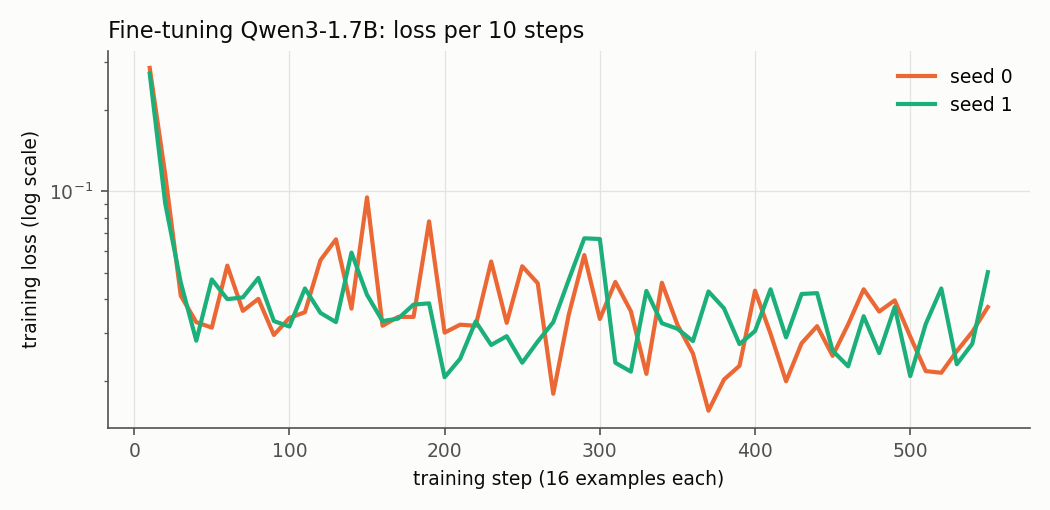
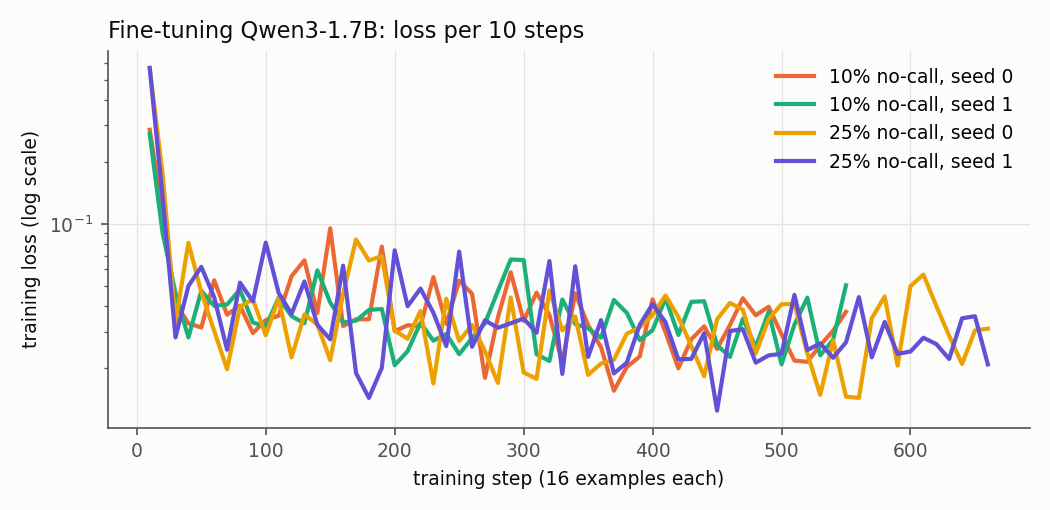
cleanup

diff --git a/src/plots.py b/src/plots.py
@@ -1,4 +1,4 @@
-"""Figures for the write-up: baselines, training loss, fine-tune evaluation, probe AUROC by layer.
+"""Figures for the write-up: baselines, training loss, fine-tune evaluation, probe AUROC by layer, steering.
 
 python src/plots.py      # writes results/figures/*.png from files already in results/
 """
@@ -16,10 +16,13 @@ ROOT = pathlib.Path(__file__).resolve().parent.parent
 OUT = ROOT / "results/figures"
 CATS = ["simple", "multiple", "parallel", "parallel_multiple", "irrelevance"]
 FT = "Qwen3-1.7B_n8000_nocall0.1_r16_s{}"
+FT25 = "Qwen3-1.7B_n8000_nocall0.25_r16_s{}"
 # one colour per model everywhere (validated: CVD-safe as a set, aqua needs the legend, which every chart has)
-COLOR = {"Qwen3-0.6B": "#008300", "Qwen3-1.7B": "#2a78d6", FT.format(0): "#eb6834", FT.format(1): "#1baf7a"}
+COLOR = {"Qwen3-0.6B": "#008300", "Qwen3-1.7B": "#2a78d6", FT.format(0): "#eb6834", FT.format(1): "#1baf7a",
+         FT25.format(0): "#eda100", FT25.format(1): "#6250d6"}
 LABEL = {"Qwen3-0.6B": "Qwen3-0.6B, untouched", "Qwen3-1.7B": "Qwen3-1.7B, untouched",
-         FT.format(0): "1.7B fine-tuned, seed 0", FT.format(1): "1.7B fine-tuned, seed 1"}
+         FT.format(0): "10% no-call, seed 0", FT.format(1): "10% no-call, seed 1",
+         FT25.format(0): "25% no-call, seed 0", FT25.format(1): "25% no-call, seed 1"}
 INK, MUTED, GRID = "#0b0b0b", "#52514e", "#e4e3df"
 plt.rcParams.update({"font.size": 9, "axes.edgecolor": MUTED, "axes.labelcolor": INK, "xtick.color": MUTED, "ytick.color": MUTED,
                      "axes.spines.top": False, "axes.spines.right": False, "axes.grid": True, "grid.color": GRID,
@@ -48,16 +51,16 @@ def bars(models, title, path):
         ax.bar(x, v[:, 0], w - 0.02, color=COLOR[m], label=LABEL[m])
         ax.errorbar(x, v[:, 0], yerr=[v[:, 0] - v[:, 1], v[:, 2] - v[:, 0]], fmt="none", ecolor=INK, elinewidth=0.8, capsize=2)
     ax.set_xticks(range(len(cats)), [c.replace("_", "-") for c in cats[:-1]] + ["overall"])
-    ax.set_ylim(50, 100); ax.set_ylabel("BFCL accuracy, % (95% CI)"); ax.set_title(title, loc="left", color=INK, pad=24)
-    ax.legend(loc="lower left", bbox_to_anchor=(0, 1.0), ncol=len(models))
+    ax.set_ylim(50, 100); ax.set_ylabel("BFCL accuracy, % (95% CI)"); ax.set_title(title, loc="left", color=INK, pad=12 + 14 * -(-len(models) // 3))
+    ax.legend(loc="lower left", bbox_to_anchor=(0, 1.0), ncol=3, fontsize=8)
     fig.tight_layout(); fig.savefig(OUT / path, dpi=150); plt.close(fig)
 
 
 def training():
     fig, ax = plt.subplots(figsize=(7, 3.4))
-    for s in (0, 1):
-        log = [x for x in json.load(open(ROOT / f"results/{FT.format(s)}_train.json"))["log"] if "loss" in x]
-        ax.plot([x["step"] for x in log], [x["loss"] for x in log], lw=2, color=COLOR[FT.format(s)], label=f"seed {s}")
+    for m in [FT.format(0), FT.format(1), FT25.format(0), FT25.format(1)]:
+        log = [x for x in json.load(open(ROOT / f"results/{m}_train.json"))["log"] if "loss" in x]
+        ax.plot([x["step"] for x in log], [x["loss"] for x in log], lw=2, color=COLOR[m], label=LABEL[m])
     ax.set_yscale("log"); ax.set_xlabel("training step (16 examples each)"); ax.set_ylabel("training loss (log scale)")
     ax.set_title("Fine-tuning Qwen3-1.7B: loss per 10 steps", loc="left", color=INK); ax.legend()
     fig.tight_layout(); fig.savefig(OUT / "2_training_loss.png", dpi=150); plt.close(fig)
@@ -98,9 +101,9 @@ def probes():
 OUT.mkdir(parents=True, exist_ok=True)
 bars(["Qwen3-0.6B", "Qwen3-1.7B"], "Baselines: untouched Qwen3 models on BFCL single-turn", "1_baselines.png")
 training()
-bars(["Qwen3-1.7B", FT.format(0), FT.format(1)], "Fine-tuning Qwen3-1.7B (10% no-call data): better parallel calls, worse holding back", "3_finetune_eval.png")
+bars(["Qwen3-1.7B", FT.format(0), FT.format(1), FT25.format(0), FT25.format(1)],
+     "Fine-tuning Qwen3-1.7B: better parallel calls, worse holding back, with 10% or 25% no-call data", "3_finetune_eval.png")
 probes()
-print(sorted(p.name for p in OUT.glob("*.png")))
 
 
 def steering():
@@ -136,4 +139,30 @@ def steering():
     fig.tight_layout(); fig.savefig(OUT / "5_steering.png", dpi=150); plt.close(fig)
 
 
+
+def nocall():
+    """How often the steered model answers without a tool call, push 0 vs 2, on three groups of held-out prompts."""
+    rows = [json.loads(l) for f in ("first_heldout", "first_live")
+            for l in open(ROOT / f"results/steer_{FT.format(0)}_calls_L17_{f}.jsonl", encoding="utf-8")]
+    groups = [("Real users, no tool fits\n(live_irrelevance, 300)", {"live_irrelevance"}),
+              ("Real users, a tool fits\n(live_simple + live_multiple, 558)", {"live_simple", "live_multiple"}),
+              ("Synthetic, a tool fits\n(BFCL held-out, 800)", set(CATS[:-1]))]
+    fig, ax = plt.subplots(figsize=(8, 3.8))
+    for j, (a, color, label) in enumerate([(0.0, "#a8a7a2", "no push"), (2.0, COLOR[FT.format(0)], "push 2 at the decision moment")]):
+        for g, (_, cats) in enumerate(groups):
+            x = [r["category"] in cats and "<tool_call>" not in r["output"] for r in rows if r["alpha"] == a and r["category"] in cats]
+            k, n = sum(x), len(x)
+            lo, hi = wilson(k, n)
+            ax.bar(g + (j - 0.5) * 0.36, k / n * 100, 0.34, color=color, label=label if g == 0 else None)
+            ax.errorbar(g + (j - 0.5) * 0.36, k / n * 100, yerr=[[k / n * 100 - lo * 100], [hi * 100 - k / n * 100]], fmt="none", ecolor=INK, elinewidth=0.8, capsize=2)
+            ax.annotate(f"{k / n:.0%}", (g + (j - 0.5) * 0.36, hi * 100), textcoords="offset points", xytext=(0, 3), ha="center", color=INK, fontsize=8)
+    ax.set_xticks(range(len(groups)), [g for g, _ in groups], fontsize=8); ax.set_ylim(0, 100)
+    ax.set_ylabel("answers with no tool call, % (95% CI)")
+    ax.set_title("Steering adds about 19 points of 'no call' on real-user prompts, whether or not a tool fits", loc="left", color=INK, fontsize=9, pad=22)
+    ax.legend(loc="lower left", bbox_to_anchor=(0, 1.0), ncol=2, fontsize=8)
+    fig.tight_layout(); fig.savefig(OUT / "6_steering_nocall.png", dpi=150); plt.close(fig)
+
+
 steering()
+nocall()
+print(sorted(p.name for p in OUT.glob("*.png")))
